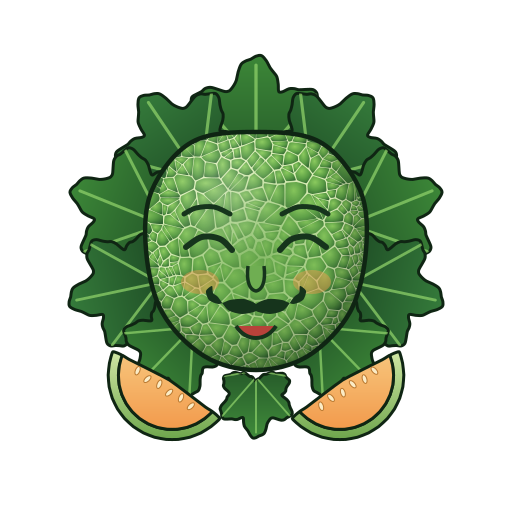
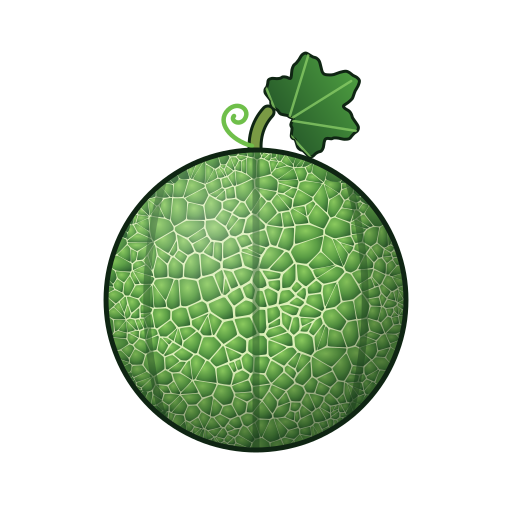
Theming: melon's palette as an accent, not a coat of paint
Dark grey-green surfaces, light text, melon green only for selection, focus and links.
A quiet gradient wallpaper (art/wallpaper.py), a plain melon logo in the installer,
Calamares and the gauntlet in the same dark colours. melon-term and melon-set-wallpaper let
first-boot, the rewards and the rust-free wallpaper work in LXQt and Plasma alike; the gold
survivor look has an LXQt version. melon-desktop pkgrel 17, calamares-melon pkgrel 10.

diff --git a/recipes/calamares-melon/modules/gauntlet/gauntlet.qml b/recipes/calamares-melon/modules/gauntlet/gauntlet.qml
@@ -13,7 +13,7 @@ import "trial.js" as T
 
 Rectangle {
     id: page
-    color: "#16301c"
+    color: "#141916"
     anchors.fill: parent
 
     readonly property int trialSeconds: 90
@@ -120,14 +120,14 @@ Rectangle {
             Layout.fillWidth: true
             Label {
                 text: page.phase === "trial" ? "The final trial" : "Gauntlet"
-                color: page.phase === "trial" ? "#f0d27a" : "#f0a35e"; font.pixelSize: 26; font.bold: true
+                color: page.phase === "trial" ? "#f0d27a" : "#6fbf4a"; font.pixelSize: 26; font.bold: true
             }
             Item { Layout.fillWidth: true }
             Label {
                 text: page.phase === "trial"
                       ? "question " + (page.tindex + 1) + " of " + page.ttotal + (page.tindex >= page.ttotal - page.finale ? "  (finale: no mistakes)" : "")
                       : "question " + Math.min(page.index + 1, page.total) + " of " + page.total
-                color: "#e9f5e1"; font.pixelSize: 16
+                color: "#e6ece3"; font.pixelSize: 16
             }
         }
 
@@ -149,7 +149,7 @@ Rectangle {
             Layout.fillWidth: true
             Layout.topMargin: 10
             text: page.shownText(page.current)
-            color: "#e9f5e1"; font.pixelSize: 24
+            color: "#e6ece3"; font.pixelSize: 24
             wrapMode: Text.WordWrap
         }
 
@@ -162,7 +162,7 @@ Rectangle {
                 onClicked: page.chosen = modelData
                 font.pixelSize: 18
                 contentItem: Text {
-                    text: parent.text; font: parent.font; color: "#e9f5e1"
+                    text: parent.text; font: parent.font; color: "#e6ece3"
                     leftPadding: parent.indicator.width + parent.spacing
                     verticalAlignment: Text.AlignVCenter
                 }
@@ -206,7 +206,7 @@ Rectangle {
         Label {
             Layout.alignment: Qt.AlignHCenter
             text: "You made it through the gauntlet."
-            color: "#f0a35e"; font.pixelSize: 32; font.bold: true
+            color: "#6fbf4a"; font.pixelSize: 32; font.bold: true
         }
         Label {
             Layout.fillWidth: true
@@ -215,7 +215,7 @@ Rectangle {
                 + "90 seconds each, shuffled every time. A wrong answer or running out of time sends you back 10, and the last 20 "
                 + "must be flawless. Get through it and you earn the survivor rewards: melon in gold (colours, login screen, "
                 + "boot menu), three wallpapers, a certificate and a badge. You can walk away at any point; melon installs either way."
-            color: "#e9f5e1"; font.pixelSize: 17
+            color: "#e6ece3"; font.pixelSize: 17
         }
         Button {
             Layout.alignment: Qt.AlignHCenter
@@ -232,7 +232,7 @@ Rectangle {
             text: "Also offer Alpine's packages (opt-in, as apk add name@alpine)"
             font.pixelSize: 16
             contentItem: Text {
-                text: parent.text; font: parent.font; color: "#e9f5e1"
+                text: parent.text; font: parent.font; color: "#e6ece3"
                 leftPadding: parent.indicator.width + parent.spacing
                 verticalAlignment: Text.AlignVCenter
             }
@@ -244,7 +244,7 @@ Rectangle {
             text: "Remove everything built with Rust, and whatever depends on it (no safeguards; earns a wallpaper)"
             font.pixelSize: 16
             contentItem: Text {
-                text: parent.text; font: parent.font; color: "#e9f5e1"
+                text: parent.text; font: parent.font; color: "#e6ece3"
                 leftPadding: parent.indicator.width + parent.spacing
                 verticalAlignment: Text.AlignVCenter
             }
@@ -271,7 +271,7 @@ Rectangle {
             Layout.topMargin: 10
             horizontalAlignment: Text.AlignHCenter
             text: "Your rewards come with the install: melon in gold (colours, login screen and boot menu),\nthree survivor wallpapers, a certificate in your Pictures folder, and a badge in melonfetch.\n\nPress Next to continue."
-            color: "#e9f5e1"; font.pixelSize: 18
+            color: "#e6ece3"; font.pixelSize: 18
         }
     }
 }

diff --git a/recipes/calamares-melon/branding/melon/show.qml b/recipes/calamares-melon/branding/melon/show.qml
@@ -1,17 +1,20 @@
 import QtQuick 2.0
 import calamares.slideshow 1.0
 
+// melon's install slideshow: dark, quiet, one small logo; the accent green only on the first line
 Presentation {
     id: presentation
     function nextSlide() { presentation.goToNextSlide(); }
     Timer { interval: 6000; running: presentation.activatedInCalamares; repeat: true; onTriggered: nextSlide() }
     Slide {
-        Image { source: "welcome.png"; width: 260; height: 260; fillMode: Image.PreserveAspectFit; anchors.centerIn: parent; anchors.verticalCenterOffset: -40 }
-        Text { anchors.horizontalCenter: parent.horizontalCenter; y: parent.height - 90; text: "melon is being installed. You earned it."; font.pixelSize: 20; color: "#1d3b22" }
+        Rectangle { anchors.fill: parent; color: "#141916" }
+        Image { source: "logo.png"; width: 120; height: 120; fillMode: Image.PreserveAspectFit; anchors.centerIn: parent; anchors.verticalCenterOffset: -50 }
+        Text { anchors.horizontalCenter: parent.horizontalCenter; y: parent.height / 2 + 40; text: "melon is being installed. You earned it."; font.pixelSize: 20; color: "#e6ece3" }
     }
     Slide {
-        Text { anchors.centerIn: parent; width: parent.width * 0.8; wrapMode: Text.WordWrap; horizontalAlignment: Text.AlignHCenter
-               text: "musl, BusyBox, runit and apk underneath.\nKDE Plasma on Wayland on top.\nFlatpak for games."; font.pixelSize: 22; color: "#1d3b22" }
+        Rectangle { anchors.fill: parent; color: "#141916" }
+        Text { anchors.centerIn: parent; width: parent.width * 0.8; wrapMode: Text.WordWrap; horizontalAlignment: Text.AlignHCenter; lineHeight: 1.3
+               text: "musl, BusyBox, runit and apk underneath.\nWayfire with LXQt's panel on top.\nFlatpak for games."; font.pixelSize: 22; color: "#e6ece3" }
     }
     function onActivate() { }
     function onLeave() { }

diff --git a/recipes/calamares-melon/modules/gauntlet/trial.js b/recipes/calamares-melon/modules/gauntlet/trial.js
@@ -499,13 +499,13 @@ var questions = [
  {
   "q": "Which desktop does melon ship?",
   "o": [
-   "KDE Plasma",
+   "LXQt on Wayfire",
    "GNOME",
    "Xfce",
-   "Cinnamon"
+   "KDE Plasma"
   ],
   "s": "801ebe3c92c1",
-  "h": "2264a4bb5b99f5a7d9da4bb42b9f23fa"
+  "h": "61986851283391de49f5db8f565ef9cc"
  },
  {
   "q": "How does melon run Steam?",

diff --git a/recipes/calamares-melon/modules/gauntlet/questions.js b/recipes/calamares-melon/modules/gauntlet/questions.js
@@ -972,12 +972,12 @@ var questions = [
  {
   "q": "Which desktop does melon ship?",
   "o": [
-   "KDE Plasma",
+   "LXQt on Wayfire",
    "GNOME",
    "Unity",
    "Windows 95"
   ],
-  "a": "KDE Plasma"
+  "a": "LXQt on Wayfire"
  },
  {
   "q": "What is 8 x 2?",

diff --git a/art/wallpaper.py b/art/wallpaper.py
@@ -1,0 +1,29 @@
+#!/usr/bin/env python3
+"""melon's default wallpaper (12 October 2026, the calmer look): a dark green-grey field with one soft glow of the
+melon accent in a corner. No planet, no logo, no text: the branding is in the boot menu and the accent colours.
+  wallpaper.py <out-dir>   -> 3840x2160.jpg, 2560x1440.jpg, 1920x1080.jpg, screenshot.jpg (the folder Plasma and
+                              pcmanfm-qt read: usr/share/wallpapers/melon/contents/images, screenshot one level up)
+Needs only numpy and Pillow (no fonts)."""
+import os, sys
+import numpy as np
+from PIL import Image
+
+OUT = sys.argv[1]; os.makedirs(OUT, exist_ok=True)
+W, H = 3840, 2160
+y, x = np.mgrid[0:H, 0:W].astype(np.float32)
+u, v = x / W, y / H
+# the field: #0c100e at the top left to #131a16 at the bottom right
+top, bottom = np.array([12, 16, 14], np.float32), np.array([19, 26, 22], np.float32)
+t = np.clip(0.55 * u + 0.45 * v, 0, 1)[..., None]
+img = top * (1 - t) + bottom * t
+# one wide, faint glow of the accent (#6fbf4a), mostly off the bottom right of the screen
+d = np.sqrt(((u - 1.05) / 0.75) ** 2 + ((v - 1.15) / 0.75) ** 2)
+glow = np.exp(-d ** 2 * 2.2)[..., None]
+img = img + glow * (np.array([111, 191, 74], np.float32) - img) * 0.16
+# a little film grain so the gradient doesn't band on 8-bit screens and in JPEG
+rng = np.random.default_rng(12)
+img = img + rng.normal(0, 0.9, (H, W, 1)).astype(np.float32)
+im = Image.fromarray(np.clip(img + 0.5, 0, 255).astype(np.uint8), 'RGB')
+for w, h in ((3840, 2160), (2560, 1440), (1920, 1080)):
+    im.resize((w, h), Image.LANCZOS).save(f'{OUT}/{w}x{h}.jpg', quality=90, optimize=True, progressive=True)
+im.resize((400, 225), Image.LANCZOS).save(f'{OUT}/screenshot.jpg', quality=88)

diff --git a/art/installer-icon.py b/art/installer-icon.py
@@ -1,0 +1,22 @@
+#!/usr/bin/env python3
+"""The installer's icon (12 October 2026, the calmer look): melon's plain logo with a small accent-green badge holding
+a down arrow ("install"). Replaces the smiling mascot.
+  installer-icon.py <logo-512.png> <out-dir>   -> <size>x<size>/apps/melon-installer.png for 32, 48, 64, 128, 256"""
+import os, sys
+from PIL import Image, ImageDraw
+
+LOGO, OUT = sys.argv[1:3]
+S = 1024
+im = Image.new('RGBA', (S, S), (0, 0, 0, 0))
+logo = Image.open(LOGO).convert('RGBA').resize((S, S), Image.LANCZOS)
+im.alpha_composite(logo)
+d = ImageDraw.Draw(im)
+cx, cy, r = int(S * 0.76), int(S * 0.76), int(S * 0.2)
+d.ellipse((cx - r - 24, cy - r - 24, cx + r + 24, cy + r + 24), fill=(18, 23, 20, 255))      # a dark ring separates it
+d.ellipse((cx - r, cy - r, cx + r, cy + r), fill=(111, 191, 74, 255))
+w = int(r * 0.22)
+d.line((cx, cy - r * 0.55, cx, cy + r * 0.35), fill=(11, 21, 12, 255), width=w)
+d.polygon([(cx - r * 0.5, cy + r * 0.0), (cx + r * 0.5, cy + r * 0.0), (cx, cy + r * 0.58)], fill=(11, 21, 12, 255))
+for s in (32, 48, 64, 128, 256):
+    os.makedirs(f'{OUT}/{s}x{s}/apps', exist_ok=True)
+    im.resize((s, s), Image.LANCZOS).save(f'{OUT}/{s}x{s}/apps/melon-installer.png', optimize=True)
